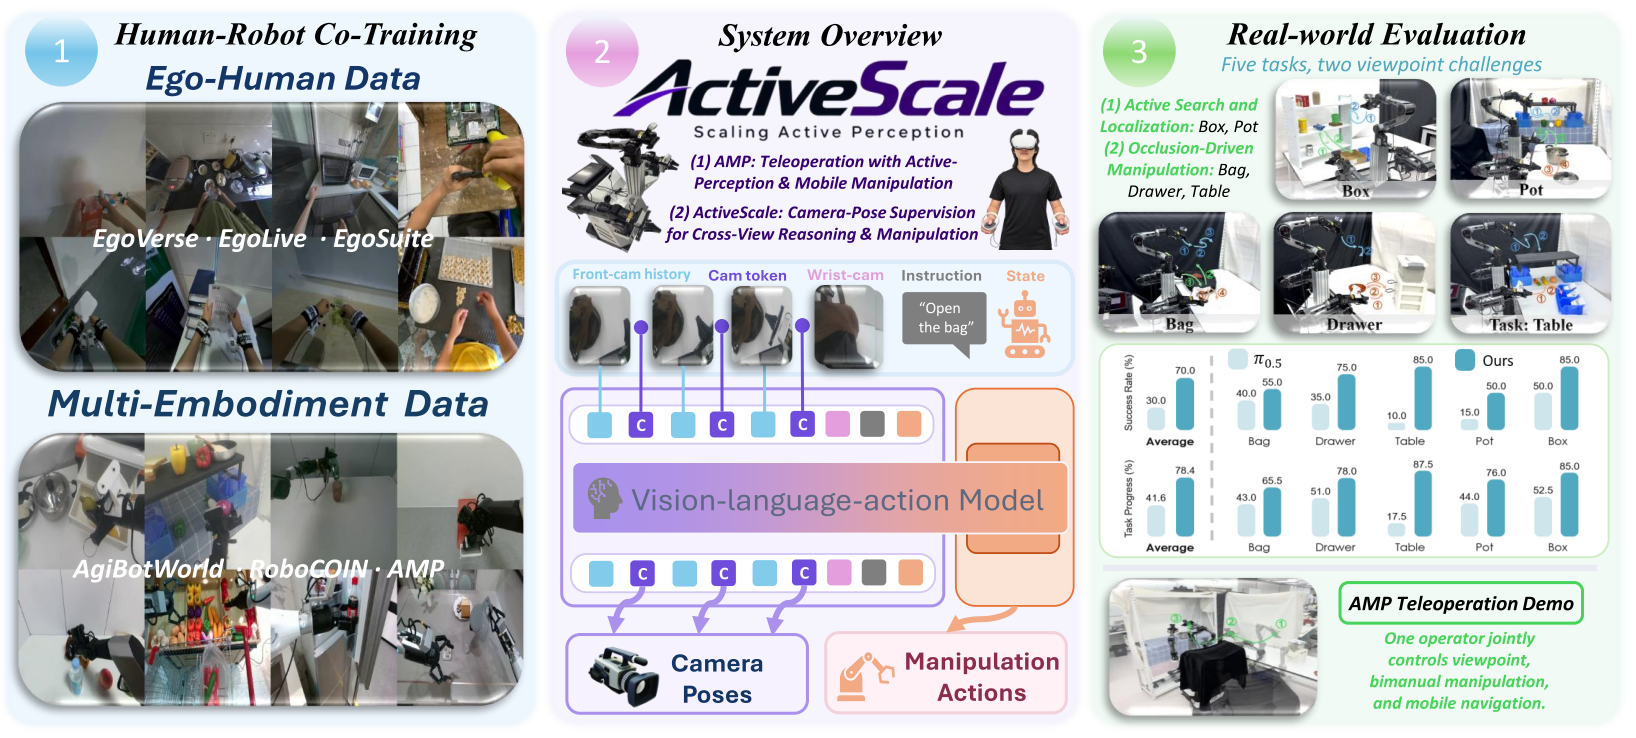
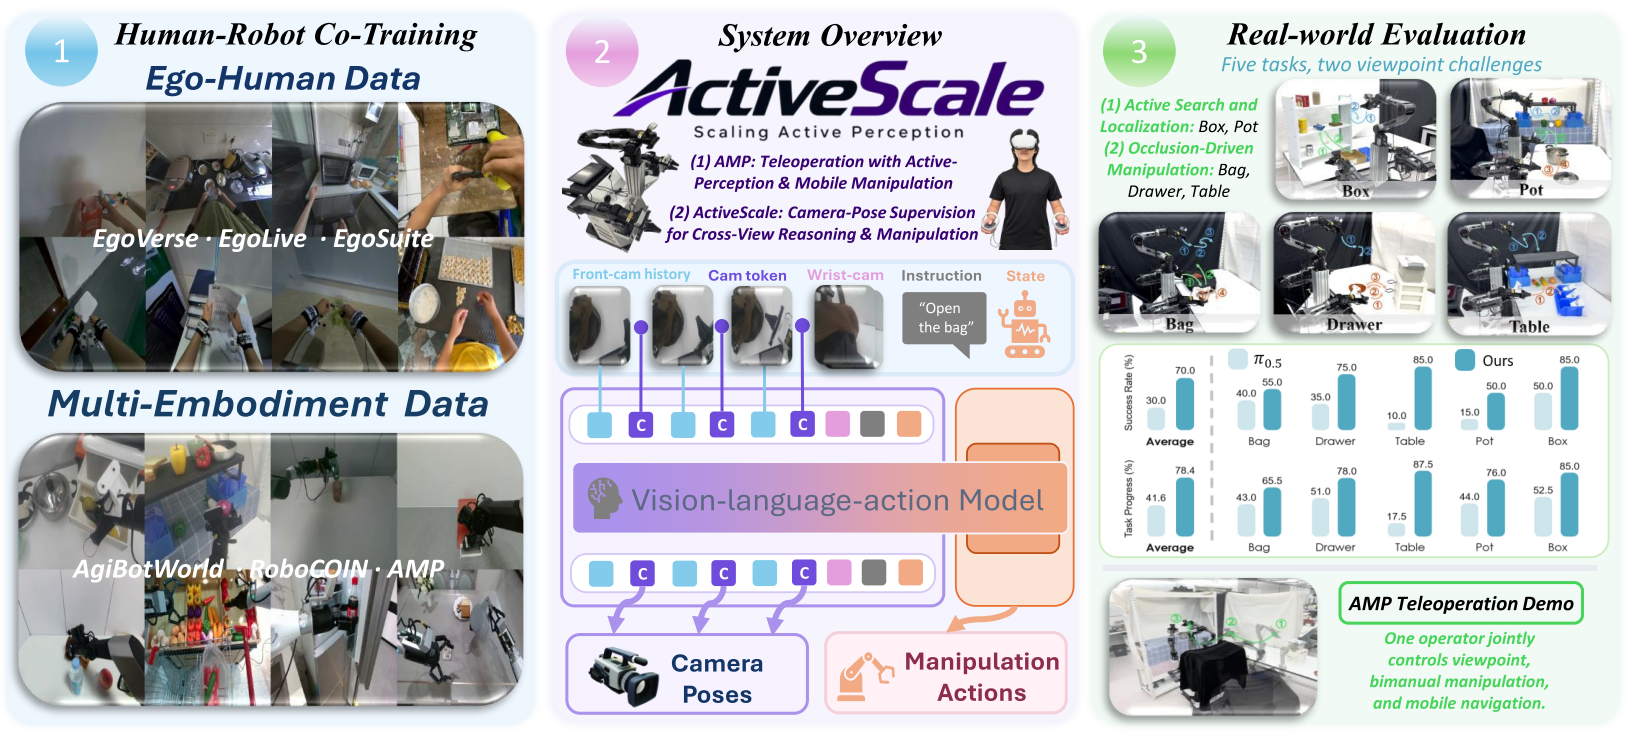
Fix task label in overview teaser figure
Panel 3's fifth task tile read "Task: Table" while the other four
just say the task name; updated teaser_1 to match ("Table"), bumped
its cache-busting query so browsers pick up the new image.

diff --git a/index.html b/index.html
@@ -54,7 +54,7 @@
 
 <section id="abstract">
 <div class="section-heading"><h2>Abstract</h2></div>
-<figure class="paper-figure" style="--figure-width:920px"><a href="assets/teaser_1.webp" target="_blank" rel="noopener" aria-label="Open ActiveScale overview at full size"><img src="assets/teaser_1.webp" alt="ActiveScale overview" loading="lazy" width="1636" height="738"></a></figure>
+<figure class="paper-figure" style="--figure-width:920px"><a href="assets/teaser_1.webp?v=20260919" target="_blank" rel="noopener" aria-label="Open ActiveScale overview at full size"><img src="assets/teaser_1.webp?v=20260919" alt="ActiveScale overview" loading="lazy" width="1634" height="734"></a></figure>
 <p id="paper-abstract" class="abstract-text">Active perception is essential for robotic manipulation when fixed viewpoints leave task-relevant information occluded or unobserved. However, enabling vision-language-action (VLA) models to reason across changing viewpoints and actively acquire informative observations remains challenging. We present ActiveScale, a framework that advances active perception through <strong>coordinated model, data, and hardware designs</strong>. Our model augments a VLA with historical video observations and <strong>explicit camera-pose supervision</strong>, using per-frame pose tokens and a lightweight prediction head to associate observations across viewpoints and support a coherent understanding of the scene. To learn from the camera motion naturally present in human activity, we introduce a scalable human–robot mid-training recipe using <strong>1000 hours of egocentric and robotic data</strong>, adapting the model to temporal inputs and pose supervision. We further introduce the Active Perception Mobile Manipulation Platform (AMP), a robotic platform that supports active perception and mobile manipulation through <strong>single-operator teleoperation</strong>, enabling scalable collection of demonstrations that coordinate viewpoint changes and manipulation. Experiments demonstrate improved success rates on active-perception tasks, while ablation studies validate the contributions of camera-pose-aware modeling and egocentric mid-training. Together, these components provide an integrated foundation for studying and developing active perception in robotic manipulation.</p>
 </section>
 
